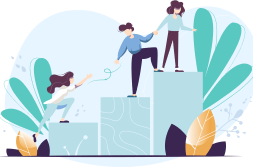
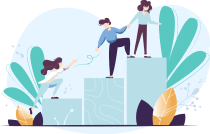
03/48

diff --git a/_includes/main-page-section-two.html b/_includes/main-page-section-two.html
@@ -1,18 +1,18 @@
 <section class="section section_two_style">
   <div class="section__flex">
     <div class="section__item">
-      <img src="assets/images/Polygon.png" alt="polygin" class="section__polygon">
+      <img src="assets/images/polygon-blue.png" alt="polygin" class="section__polygon">
       <h2 class="section__title">{{page.section_two_title}}</h2>
       <p class="section__info">{{page.section_two_info}}</p>
       <div class="section__inner-wrap-img">
-        <img src="assets/images/Components (2).png" alt="components" class="section__components-mobile"> 
+        <img src="assets/images/latis-knowledge-base.png" alt="components" class="section__components-mobile"> 
       </div>
       <p class="section__answer">{{page.section_two_answer}}</p>
       <button type="button" class="section__btn section__btn_contact_us">{{page.section_two_btn}}</button>
     </div>
     <div class="section__item">
-      <img src="assets/images/Components-new.png" alt="components" class="section__components">
-      <img src="assets/images/Polygon-light.png" alt="components" class="section__polygon-light">                   
+      <img src="assets/images/latis-knowledge-base.png" alt="components" class="section__components">
+      <img src="assets/images/polygon-teal.png" alt="components" class="section__polygon-light">                   
     </div>
   </div>
 </section>

diff --git a/_includes/main-page-section-four.html b/_includes/main-page-section-four.html
@@ -1,19 +1,19 @@
 <section class="section section_four_style">
   <div class="section__flex">
     <div class="section__item">
-      <img src="assets/images/Polygon.png" alt="polygin" class="section__polygon">
+      <img src="assets/images/polygon-blue.png" alt="polygin" class="section__polygon">
       <h2 class="section__title">{{page.section_four_title}}</h2>
       <p class="section__info">{{page.section_four_info}}</p>
       <div class="section__inner-wrap-img">
-        <img src="assets/images/Components (4).png" alt="components" class="section__components-mobile"> 
+        <img src="assets/images/latis-concierge.png" alt="components" class="section__components-mobile"> 
       </div>
       <p class="section__answer">{{page.section_four_answer}}</p>
       <button type="button" class="section__btn section__btn_contact_us">{{page.section_four_btn}}</button>
     </div>
 
     <div class="section__item">
-     <img src="assets/images/Group-yet.png" alt="components" class="section__group img-fluid">
-     <img src="assets/images/Polygon.png" alt="components" class="section__polygon-light">
+     <img src="assets/images/latis-concierge.png" alt="components" class="section__group img-fluid">
+     <img src="assets/images/polygon-blue.png" alt="components" class="section__polygon-light">
     </div>
   </div>
 </section>

diff --git a/_includes/main-page-section-three.html b/_includes/main-page-section-three.html
@@ -1,16 +1,16 @@
 <section class="section section_three_style">
   <div class="section__flex">
     <div class="section__item">
-      <img src="assets/images/Components (1).png" alt="components" class="section__group img-fluid">
-      <img src="assets/images/Polygon-light.png" alt="components" class="section__polygon-light">  
+      <img src="assets/images/latis-projects.png" alt="components" class="section__group img-fluid">
+      <img src="assets/images/polygon-teal.png" alt="components" class="section__polygon-light">  
     </div>
 
     <div class="section__item">
-      <img src="assets/images/Polygon-dark.png" alt="polygin" class="section__polygon">
+      <img src="assets/images/polygon-purple.png" alt="polygin" class="section__polygon">
       <h2 class="section__title">{{page.section_three_title}}</h2>
       <p class="section__info">{{page.section_three_info}}</p>
       <div class="section__inner-wrap-img">
-        <img src="assets/images/Components (3).png" alt="components" class="section__components-mobile"> 
+        <img src="assets/images/latis-projects.png" alt="components" class="section__components-mobile"> 
       </div>
       <p class="section__answer">{{page.section_three_answer}}</p>
       <button type="button" class="section__btn section__btn_contact_us">{{page.section_three_btn}}</button>
